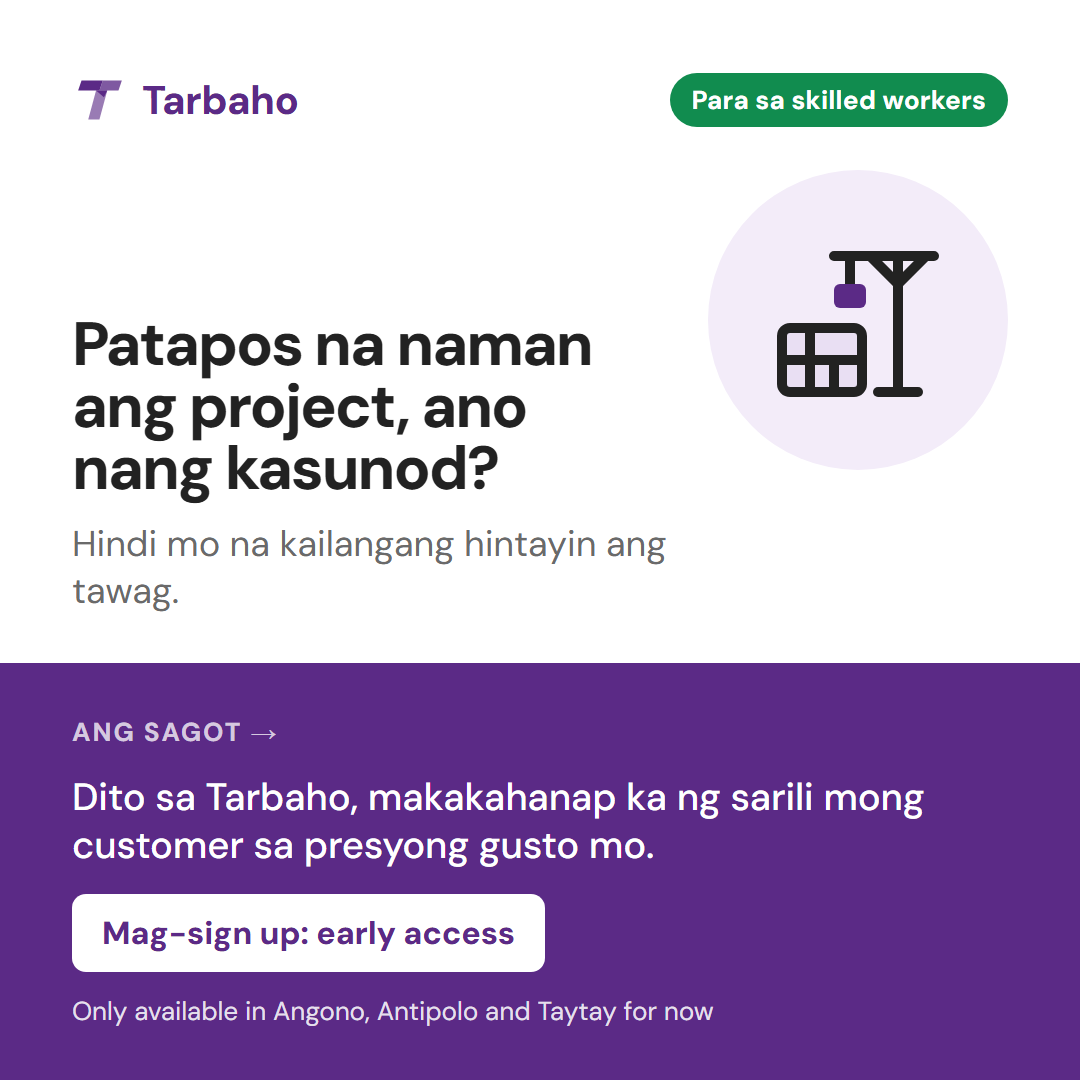
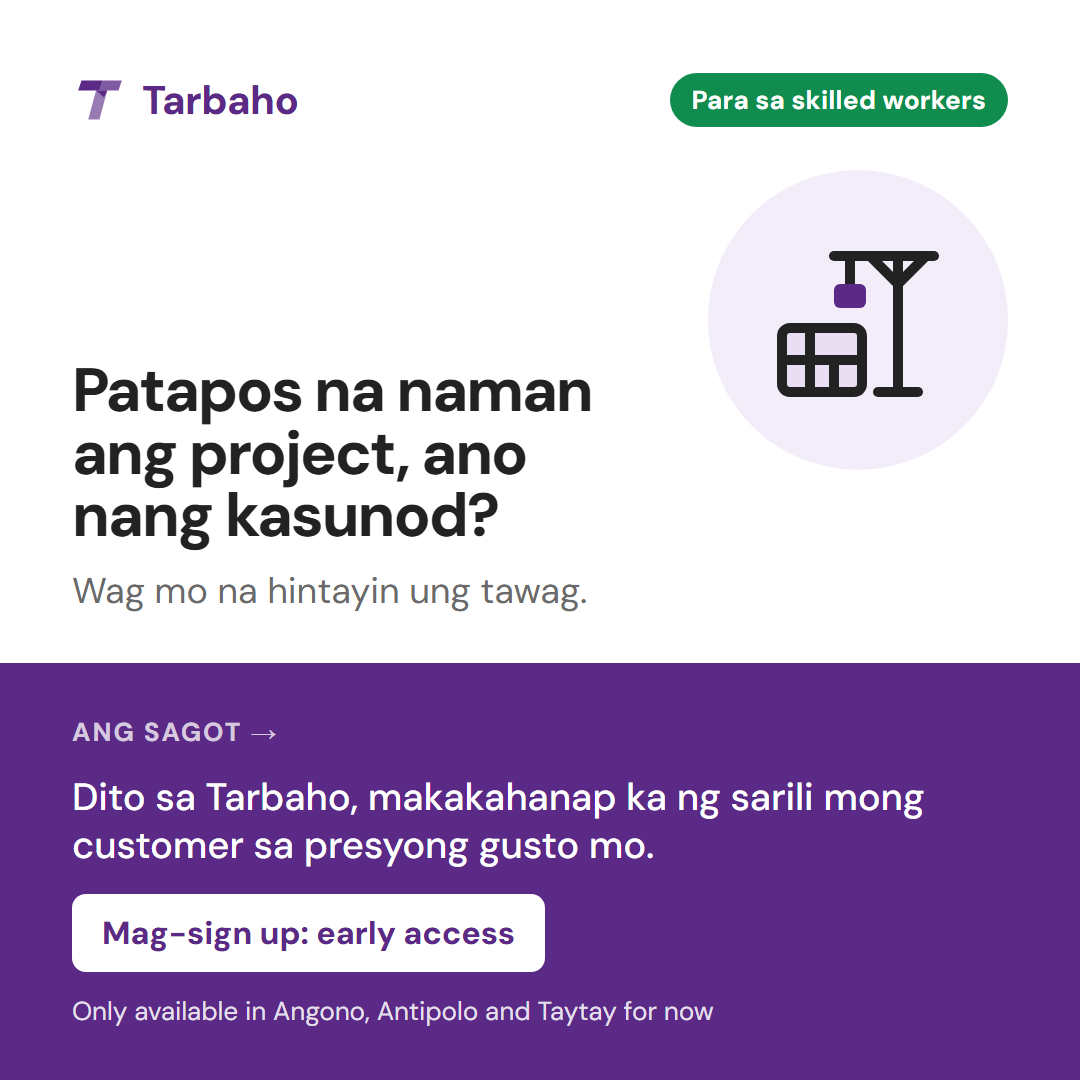
w54: casual subtitle, matches the caption

Changed region(s): [[0.0611, 0.275, 0.6111, 0.5806]]

diff --git a/marketing/facebook/posts.py b/marketing/facebook/posts.py
@@ -1610,7 +1610,7 @@ POSTS = [
     dict(
         id="w54-project", side="worker", stage="problem", season="all", icon="construction",
         problem="Patapos na naman ang project, ano nang kasunod?",
-        sub="Hindi mo na kailangang hintayin ang tawag.",
+        sub="Wag mo na hintayin ung tawag.",
         answer="Dito sa Tarbaho, makakahanap ka ng sarili mong customer sa presyong gusto mo.",
         cta="Mag-sign up: early access",
         towns="Only available in Angono, Antipolo and Taytay for now",
